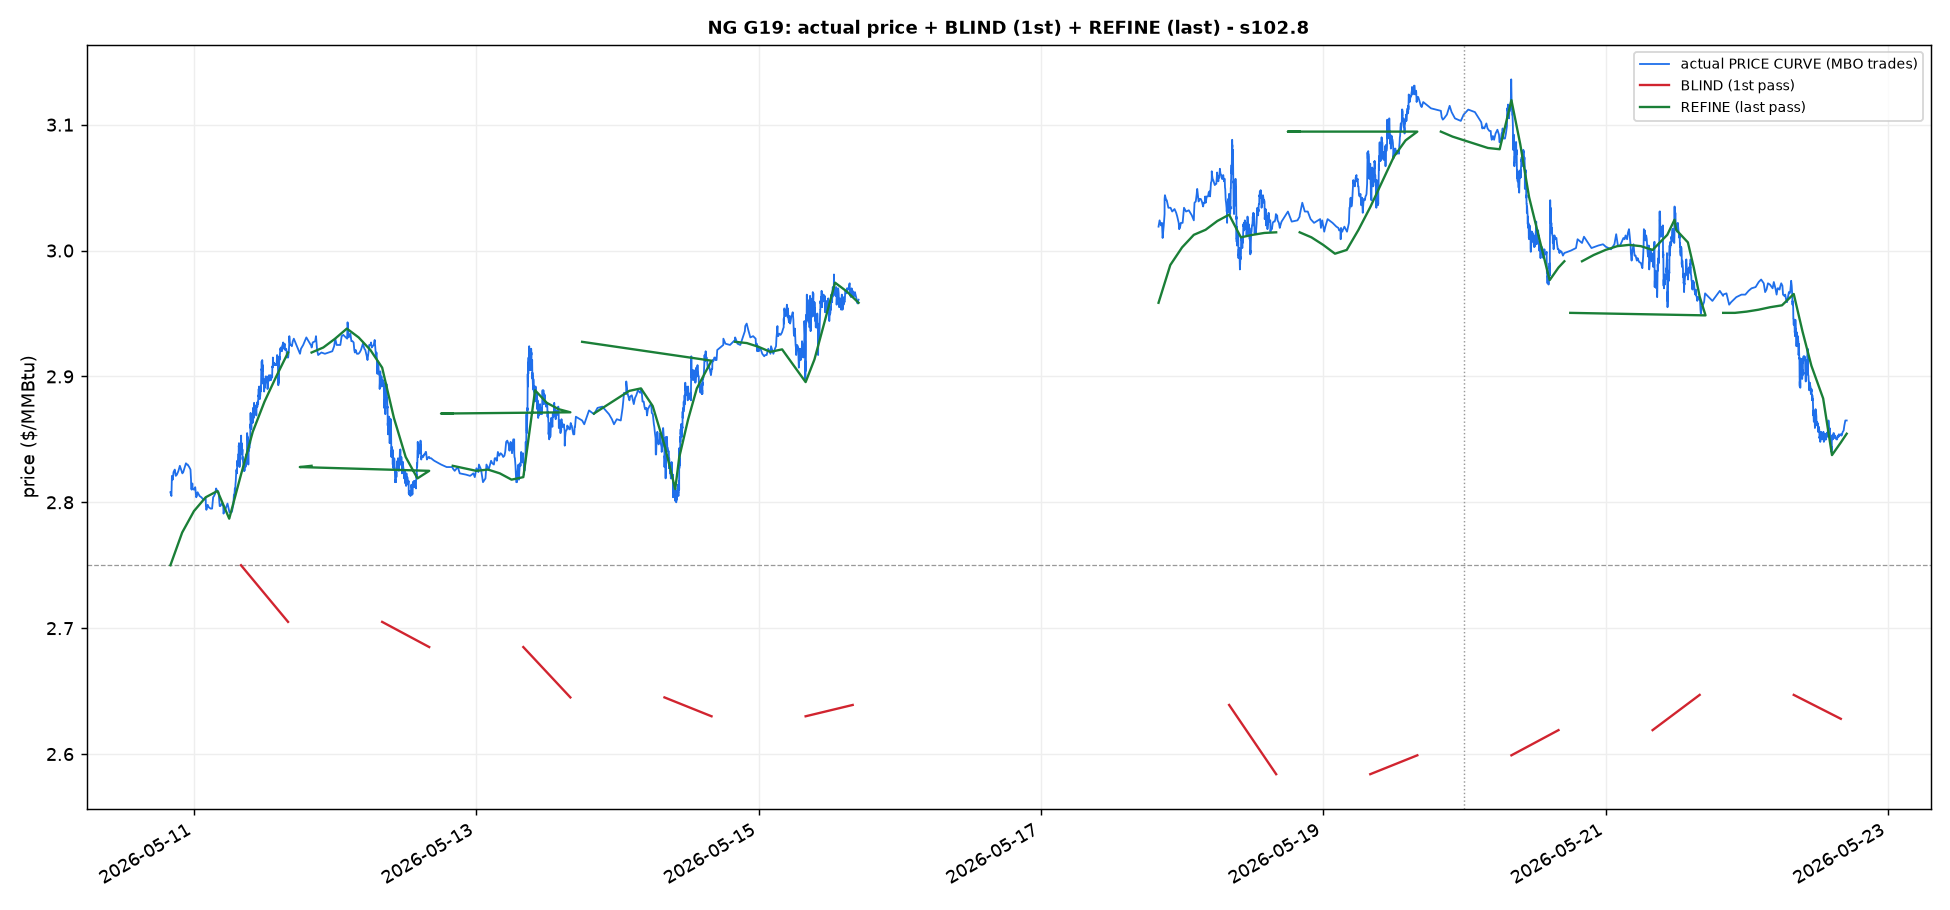
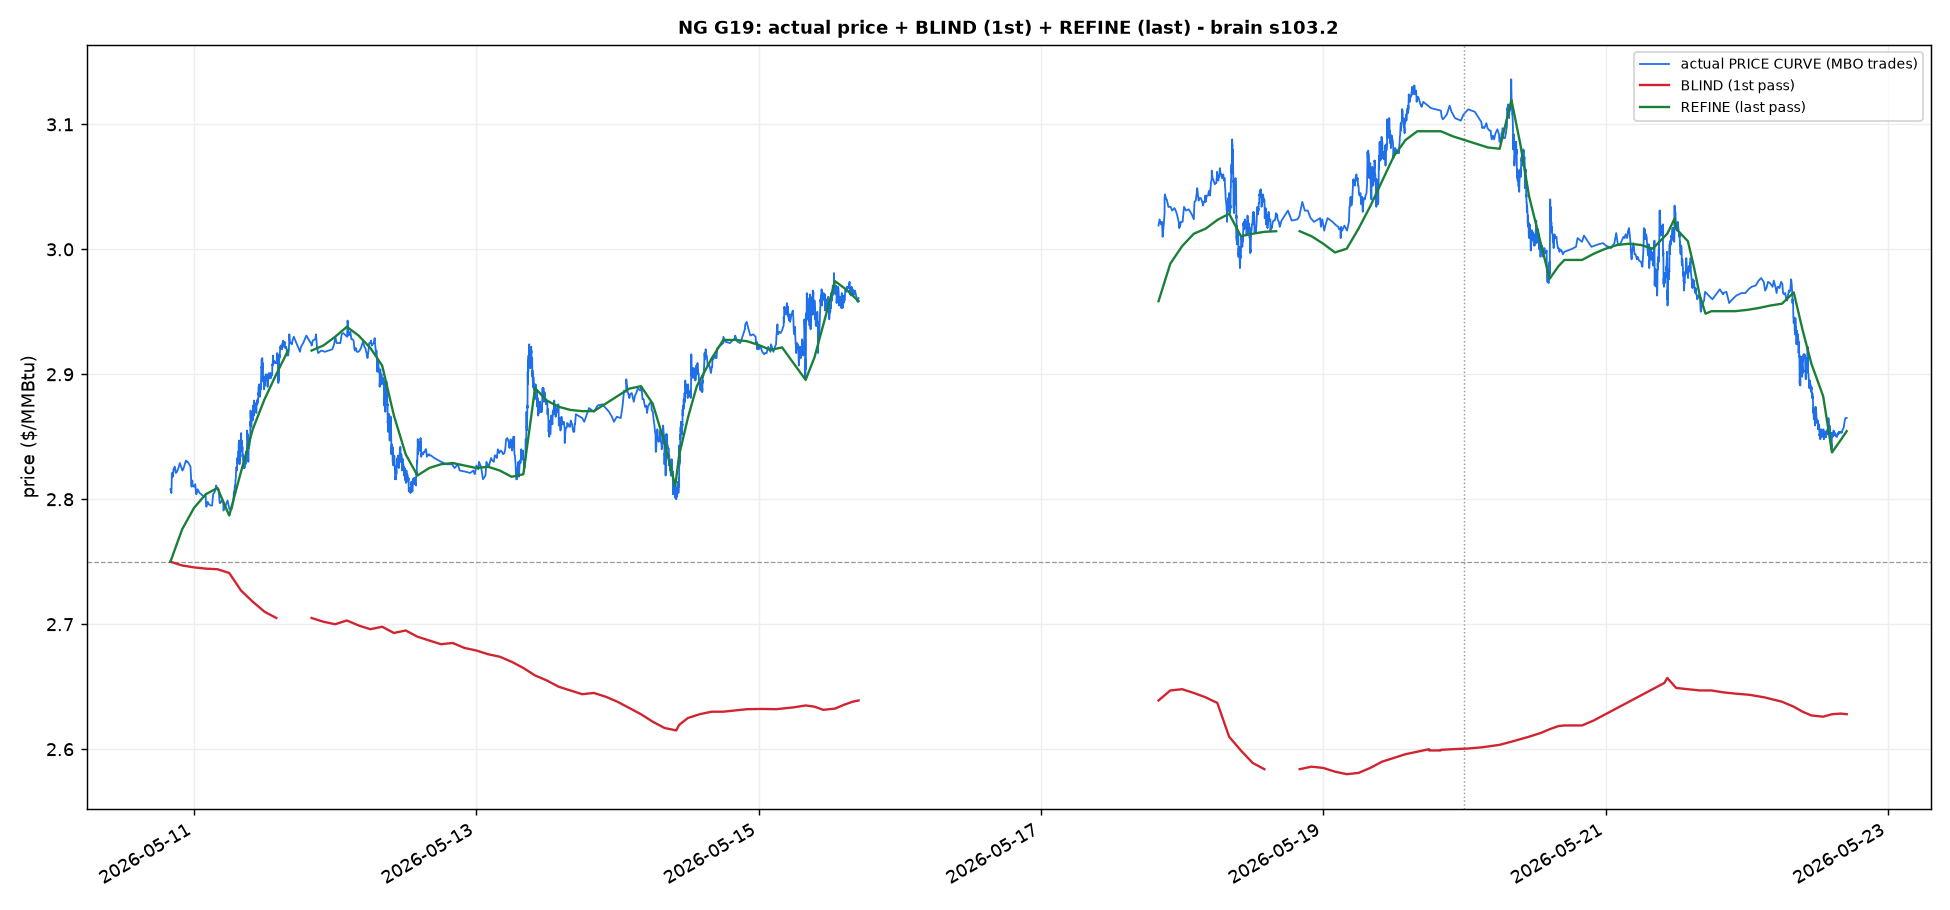
Render fixes: terminal-point fold, one polyline per block, the missing blind curve
Three defects in the render path, all live, all in code DUPLICATED across both
coordinators - which is precisely how the second copy of the EIA error survived
earlier today. Consolidated into one new module, research/kalshi/render_util.py,
so there is a single implementation to be right.

1. THE TERMINAL-POINT FOLD. The grid-hour mapping was `day0 - 1d + h` when
   `h >= 18`, else `day0 + h`. The 2-hourly grid runs from the PRIOR evening's
   20:00 reopen through the forecast day, so a full 13-point path reads
   20, 22, 0, 2 ... 16, 18, 20. Under that rule the TRAILING 18 and 20 were
   sent back to the prior evening - the day's CLOSING point, the number the
   coordinator actually scores, was drawn ~22 hours early and landed on top of
   its own opening point, with a spurious line running backwards across the
   whole session. Owners emitting an 11-point grid ending at 16 (E this block)
   dodged it; C and D, which emit the full 13-point grid, did not. Replaced by
   render_util.path_times, which decides the day offset from the MIDNIGHT WRAP
   rather than the hour value.

2. ONE POLYLINE PER DAY. Each day was its own ax.plot call, so the forecast
   rendered as N disconnected segments - the "days do not flow" complaint -
   while the ACTUAL was already drawn as a single break_gaps line. The two
   curves were not comparable as shapes. Now accumulated across the block and
   drawn once, with NaN breaks only at real session gaps (>3h), so the S104
[…]

diff --git a/research/kalshi/group_coordinate_refine.py b/research/kalshi/group_coordinate_refine.py
@@ -12,6 +12,7 @@ import matplotlib; matplotlib.use("Agg"); import matplotlib.pyplot as plt
 import pandas as pd
 sys.path.insert(0, os.path.dirname(os.path.abspath(__file__)))
 import group_config as gc
+import render_util as ru
 import verify_gold
 verify_gold.assert_gold_intact()   # the concrete wall - no refine coordinate on a violated gold vault
 
@@ -43,16 +44,7 @@ def num(x):
     return isinstance(x, (int, float)) and not isinstance(x, bool)
 
 
-def break_gaps(ct, cp, max_gap_h=3.0):
-    """S104 RENDER RULE - never bridge a session gap with a straight line. Insert a NaN break
-    wherever consecutive tape points are >max_gap_h apart (weekend, holidays, multi-hour halts)."""
-    ct = np.asarray(ct, float); cp = np.asarray(cp, float)
-    if ct.size < 2:
-        return ct, cp
-    gi = np.where(np.diff(ct) > max_gap_h * 3600.0)[0]
-    if gi.size == 0:
-        return ct, cp
-    return np.insert(ct, gi + 1, ct[gi]), np.insert(cp, gi + 1, np.nan)
+break_gaps = ru.break_gaps   # S107: one implementation, in render_util
 
 
 def guard_assemble(gid, rnd):
@@ -89,29 +81,43 @@ def render(gid, rows, actual, blind_days):
     bmap = {r["date"]: r for r in blind_days}
 
     def step_line(get_move, get_path, color, label, z):
-        run = 0.0; lab = False
+        """S107: ONE polyline for the whole block (NaN breaks at real session gaps only), and the
+        grid-hour mapping comes from render_util.path_times so a trailing 18:00/20:00 stays on the
+        forecast day instead of folding back onto its own open."""
+        run = 0.0; fx, fy = [], []
         for b in rows:
-            d = b["date"]; gap = 0 if d == seam else 0
+            d = b["date"]
             net = get_move(b); day0 = pd.Timestamp(f"{d[:4]}-{d[4:6]}-{d[6:]}", tz="America/New_York")
             path = [(h, v) for h, v in (get_path(b) or []) if h is not None and v is not None]
             if path:
-                sx = [(day0 - pd.Timedelta(days=1) + pd.Timedelta(hours=h)) if h >= 18 else (day0 + pd.Timedelta(hours=h)) for h, _ in path]
+                sx = ru.path_times(day0, path)
                 sy = [anchor + (run + v) / MULT for _, v in path]
             else:
                 sx = [day0 + pd.Timedelta(hours=8), day0 + pd.Timedelta(hours=16)]
                 sy = [anchor + run / MULT, anchor + (run + net) / MULT]
-            ax.plot(sx, sy, color=color, lw=1.3, zorder=z, label=(label if not lab else None)); lab = True
+            fx.extend(sx); fy.extend(sy)
             run += net
+        ru.plot_forecast(ax, fx, fy, color=color, label=label, lw=1.3, z=z)
     # 1st pass = BLIND (red), last pass = REFINE (green)
+    # S107: the blind's intraday path lives under "path_p50" in grp<n>.json - that is the key
+    # group_coordinate_blind.py writes. This render asked for "path_distribution" (the SPECIALIST-side
+    # key, before the coordinator reshapes it), so the lookup always returned None and the blind fell
+    # through to a 2-point-per-day stub: the whole point of this chart is blind-vs-refine-vs-price and
+    # the blind curve was never actually drawn. Accept both keys.
+    def _blind_path(b):
+        r = bmap.get(b["date"], {})
+        pts = r.get("path_p50")
+        if pts:
+            return [(h, v) for h, v in pts]
+        return [(x.get("et_hr"), x.get("p50")) for x in (r.get("path_distribution") or [])] or None
     step_line(lambda b: bmap.get(b["date"], {}).get("guess_day_move_usd", 0),
-              lambda b: [(r.get("et_hr"), r.get("p50")) for r in (bmap.get(b["date"], {}).get("path_distribution") or [])] or None,
-              "#d1242f", "BLIND (1st pass)", 3)
+              _blind_path, "#d1242f", "BLIND (1st pass)", 3)
     step_line(lambda b: b["refined_day_move_usd"], lambda b: b["path_p50"], "#1a7f37", "REFINE (last pass)", 4)
     ax.axhline(anchor, color="#999", lw=0.7, ls="--")
     if seam:
         sd = pd.Timestamp(f"{seam[:4]}-{seam[4:6]}-{seam[6:]}", tz="America/New_York")
         ax.axvline(sd, color="#999", lw=0.8, ls=":")
-    ax.set_title(f"NG {gid.upper()}: actual price + BLIND (1st) + REFINE (last) - s102.8", fontsize=10, fontweight="bold")
+    ax.set_title(f"NG {gid.upper()}: actual price + BLIND (1st) + REFINE (last) - brain {ru.brain_version()}", fontsize=10, fontweight="bold")
     ax.set_ylabel("price ($/MMBtu)"); ax.legend(fontsize=8); ax.grid(True, color="#eee"); ax.set_axisbelow(True)
     out = os.path.join(RENDER_DIR, f"{gid}_blind_vs_refine_vs_price.png")
     fig.autofmt_xdate(); fig.tight_layout(); fig.savefig(out, dpi=130); plt.close(fig); return out
@@ -130,7 +136,7 @@ if __name__ == "__main__":
         rows.append({**b, "actual_day_move_usd": am, "refined_err_usd": err, "dir_hit": hit,
                      "blind_day_move_usd": bmap.get(b["date"], {}).get("guess_day_move_usd")})
     bl_dh = sum(1 for r in rows if (r["blind_day_move_usd"] or 0 > 0) == (r["actual_day_move_usd"] > 0))
-    json.dump({"group": gid, "phase": f"mbo_refined_r{rnd}", "brain_version": "s102.8", "mean_abs_err_usd": round(sabs/len(rows)),
+    json.dump({"group": gid, "phase": f"mbo_refined_r{rnd}", "brain_version": ru.brain_version(), "mean_abs_err_usd": round(sabs/len(rows)),
                "dir_hits": dh, "n": len(rows), "sum_abs_err_usd": sabs, "days": rows},
               open(os.path.join(FC, f"grp{gid[1:]}_mbo_refined{tag}.json"), "w"), indent=1)
     print(f"{'date':10} {'own':4} {'blind':>7} {'refined':>8} {'actual':>7} {'err':>7} {'dir':>4}")

diff --git a/research/kalshi/render_util.py b/research/kalshi/render_util.py
@@ -1,0 +1,88 @@
+"""render_util.py - the ONE implementation of the walk's render rules (S107).
+
+Both coordinators previously carried their own copy of break_gaps and their own copy of the
+grid-hour -> timestamp mapping. The copies agreed, so the SAME two defects lived in both:
+
+1. THE TERMINAL-POINT FOLD. The mapping was `day0 - 1d + h` when `h >= 18`, else `day0 + h`. The
+   2-hourly grid runs from the PRIOR evening's 20:00 reopen through the forecast day, so a full
+   13-point path reads 20, 22, 0, 2, ... 16, 18, 20. Under the old rule the trailing 18 and 20 were
+   sent BACK to the prior evening - the day's CLOSING point, which is the number the coordinator
+   scores, was drawn ~22 hours early and landed on top of its own opening point, with a spurious
+   line running backwards across the whole session. Owners emitting an 11-point grid ending at 16
+   (E, this block) dodged it; C and D did not.
+
+2. ONE POLYLINE PER DAY. Each day was a separate ax.plot call, so the forecast rendered as N
+   disconnected segments - the "days do not flow" complaint - while the ACTUAL curve was already
+   drawn as a single break_gaps line. The two curves were not comparable as shapes.
+
+Both are fixed here, once. S104 render rule is unchanged and now applies to the forecast too:
+never bridge a session gap with a straight line - insert a NaN break wherever consecutive points
+are more than max_gap_h apart, so matplotlib lifts the pen across weekends, holidays and halts.
+"""
+from __future__ import annotations
+import numpy as np
+import pandas as pd
+
+ET = "America/New_York"
+
+
+def break_gaps(ct, cp, max_gap_h: float = 3.0):
+    """S104 RENDER RULE. Insert a NaN break wherever consecutive points are >max_gap_h apart, so a
+    weekend or holiday is a lifted pen rather than a fake diagonal. ct = epoch seconds, cp = values."""
+    ct = np.asarray(ct, float)
+    cp = np.asarray(cp, float)
+    if ct.size < 2:
+        return ct, cp
+    gi = np.where(np.diff(ct) > max_gap_h * 3600.0)[0]
+    if gi.size == 0:
+        return ct, cp
+    return np.insert(ct, gi + 1, ct[gi]), np.insert(cp, gi + 1, np.nan)
+
+
+def path_times(day0: pd.Timestamp, path) -> list[pd.Timestamp]:
+    """Map a day's 2-hourly ET grid onto real timestamps.
+
+    The grid opens at the PRIOR calendar day's 20:00 reopen and runs through the forecast day, so
+    the correct day offset is decided by the MIDNIGHT WRAP, not by the hour value alone: hours
+    before the wrap belong to day0-1, everything from the wrap onward belongs to day0. That is what
+    keeps a trailing 18:00/20:00 on the forecast day where it belongs (the close) instead of folding
+    it back onto the open.
+    """
+    hs = [h for h, _ in path]
+    if not hs:
+        return []
+    off = -1 if hs[0] >= 18 else 0
+    out, prev = [], None
+    for h in hs:
+        if prev is not None and h < prev and off < 0:
+            off += 1            # the midnight wrap, taken once
+        out.append(day0 + pd.Timedelta(days=off) + pd.Timedelta(hours=h))
+        prev = h
+    return out
+
+
+def plot_forecast(ax, xs, ys, *, color: str, label: str, lw: float = 1.2, z: int = 4,
+                  max_gap_h: float = 3.0):
+    """Draw a whole block's forecast as ONE polyline with NaN breaks at real session gaps.
+    xs = tz-aware Timestamps across every day of the block, ys = matching prices."""
+    if not xs:
+        return
+    order = np.argsort([x.value for x in xs])
+    xs = [xs[i] for i in order]
+    ys = [ys[i] for i in order]
+    ts = np.array([x.timestamp() for x in xs], float)
+    gt, gp = break_gaps(ts, np.asarray(ys, float), max_gap_h)
+    gdt = pd.to_datetime(gt, unit="s", utc=True).tz_convert(ET)
+    ax.plot(gdt, gp, color=color, lw=lw, zorder=z, label=label)
+
+
+def brain_version(default: str = "unknown") -> str:
+    """The LIVE brain version, read at render/assemble time. Both coordinators had 's102.8' hard
+    coded into the title and into the emitted forecast JSON, so every artifact since that release
+    has been mislabelled with a brain it did not run on."""
+    import json, os
+    p = os.path.join(os.path.dirname(os.path.abspath(__file__)), "knowledge", "ng_brain.json")
+    try:
+        return json.load(open(p))["meta"]["version"]
+    except Exception:
+        return default

diff --git a/research/kalshi/group_coordinate_blind.py b/research/kalshi/group_coordinate_blind.py
@@ -12,6 +12,7 @@ import matplotlib; matplotlib.use("Agg"); import matplotlib.pyplot as plt
 import pandas as pd
 sys.path.insert(0, os.path.dirname(os.path.abspath(__file__)))
 import group_config as gc
+import render_util as ru
 import verify_gold
 verify_gold.assert_gold_intact()   # the concrete wall - no blind coordinate on a violated gold vault
 
@@ -44,17 +45,7 @@ def num(x):
     return isinstance(x, (int, float)) and not isinstance(x, bool)
 
 
-def break_gaps(ct, cp, max_gap_h=3.0):
-    """S104 RENDER RULE - never bridge a session gap with a straight line. Insert a NaN break
-    wherever consecutive tape points are >max_gap_h apart (the weekend, holidays, multi-hour halts),
-    so matplotlib lifts the pen instead of drawing a fake diagonal across untraded time."""
-    ct = np.asarray(ct, float); cp = np.asarray(cp, float)
-    if ct.size < 2:
-        return ct, cp
-    gi = np.where(np.diff(ct) > max_gap_h * 3600.0)[0]
-    if gi.size == 0:
-        return ct, cp
-    return np.insert(ct, gi + 1, ct[gi]), np.insert(cp, gi + 1, np.nan)
+break_gaps = ru.break_gaps   # S107: one implementation, in render_util
 
 
 def guard_assemble(gid):
@@ -106,25 +97,27 @@ def render(gid, rows, actual, seam):
     ct, cp = break_gaps([t for t, _ in actual["continuous"]], [p for _, p in actual["continuous"]])
     adt = pd.to_datetime(ct, unit="s", utc=True).tz_convert("America/New_York")
     ax.plot(adt, cp, color="#1f6feb", lw=0.8, label="actual (MBO trades)", zorder=3)
-    anchor = actual["anchor"]; run = 0.0; labelled = False
+    anchor = actual["anchor"]; run = 0.0
+    fx, fy = [], []                     # S107: accumulate the WHOLE block, then draw ONE polyline
     for b in rows:
         d = b["date"]; gap = 0 if d == seam else b["overnight_gap_usd"]
         open_cum = run + gap; net = b["guess_day_move_usd"] - (0 if d == seam else gap)
         day0 = pd.Timestamp(f"{d[:4]}-{d[4:6]}-{d[6:]}", tz="America/New_York")
         path = [(h, v) for h, v in b["path_p50"] if h is not None and v is not None]
         if path:
-            sx = [(day0 - pd.Timedelta(days=1) + pd.Timedelta(hours=h)) if h >= 18 else (day0 + pd.Timedelta(hours=h)) for h, _ in path]
+            sx = ru.path_times(day0, path)
             sy = [anchor + (open_cum + v) / MULT for _, v in path]
         else:
             sx = [day0 + pd.Timedelta(hours=8), day0 + pd.Timedelta(hours=16)]
             sy = [anchor + open_cum / MULT, anchor + (open_cum + net) / MULT]
-        ax.plot(sx, sy, color="#d1242f", lw=1.2, zorder=4, label=("blind p50 path" if not labelled else None)); labelled = True
+        fx.extend(sx); fy.extend(sy)
         run = open_cum + net
+    ru.plot_forecast(ax, fx, fy, color="#d1242f", label="blind p50 path", lw=1.2, z=4)
     ax.axhline(anchor, color="#999", lw=0.7, ls="--")
     if seam:
         sd = pd.Timestamp(f"{seam[:4]}-{seam[4:6]}-{seam[6:]}", tz="America/New_York")
         ax.axvline(sd, color="#999", lw=0.8, ls=":")
-    ax.set_title(f"NG {gid.upper()} BLIND (5-specialist sequenced panel, s102.8 kitchen-sink) vs actual", fontsize=10, fontweight="bold")
+    ax.set_title(f"NG {gid.upper()} BLIND (5-specialist sequenced panel, brain {ru.brain_version()}) vs actual", fontsize=10, fontweight="bold")
     ax.set_ylabel("price ($/MMBtu)"); ax.legend(fontsize=8); ax.grid(True, color="#eee"); ax.set_axisbelow(True)
     out = os.path.join(RENDER_DIR, f"{gid}_blind_vs_actual.png")
     fig.autofmt_xdate(); fig.tight_layout(); fig.savefig(out, dpi=130); plt.close(fig); return out
@@ -135,7 +128,7 @@ if __name__ == "__main__":
     actual = json.load(open(os.path.join(RENDER_DIR, f"{gid}_actual.json")))
     block, seam = guard_assemble(gid)
     rows, sabs, dh = score(block, actual)
-    json.dump({"group": gid, "phase": "blind", "brain_version": "s102.8", "anchor": actual["anchor"],
+    json.dump({"group": gid, "phase": "blind", "brain_version": ru.brain_version(), "anchor": actual["anchor"],
                "sum_abs_err_usd": sabs, "mean_abs_err_usd": round(sabs / len(rows)), "dir_hits": dh,
                "n": len(rows), "days": rows}, open(os.path.join(FC, f"grp{gid[1:]}.json"), "w"), indent=1)
     print(f"{'date':10} {'dow':4} {'own':4} {'guess':>8} {'actual':>8} {'err':>7} {'dir':>4}")
